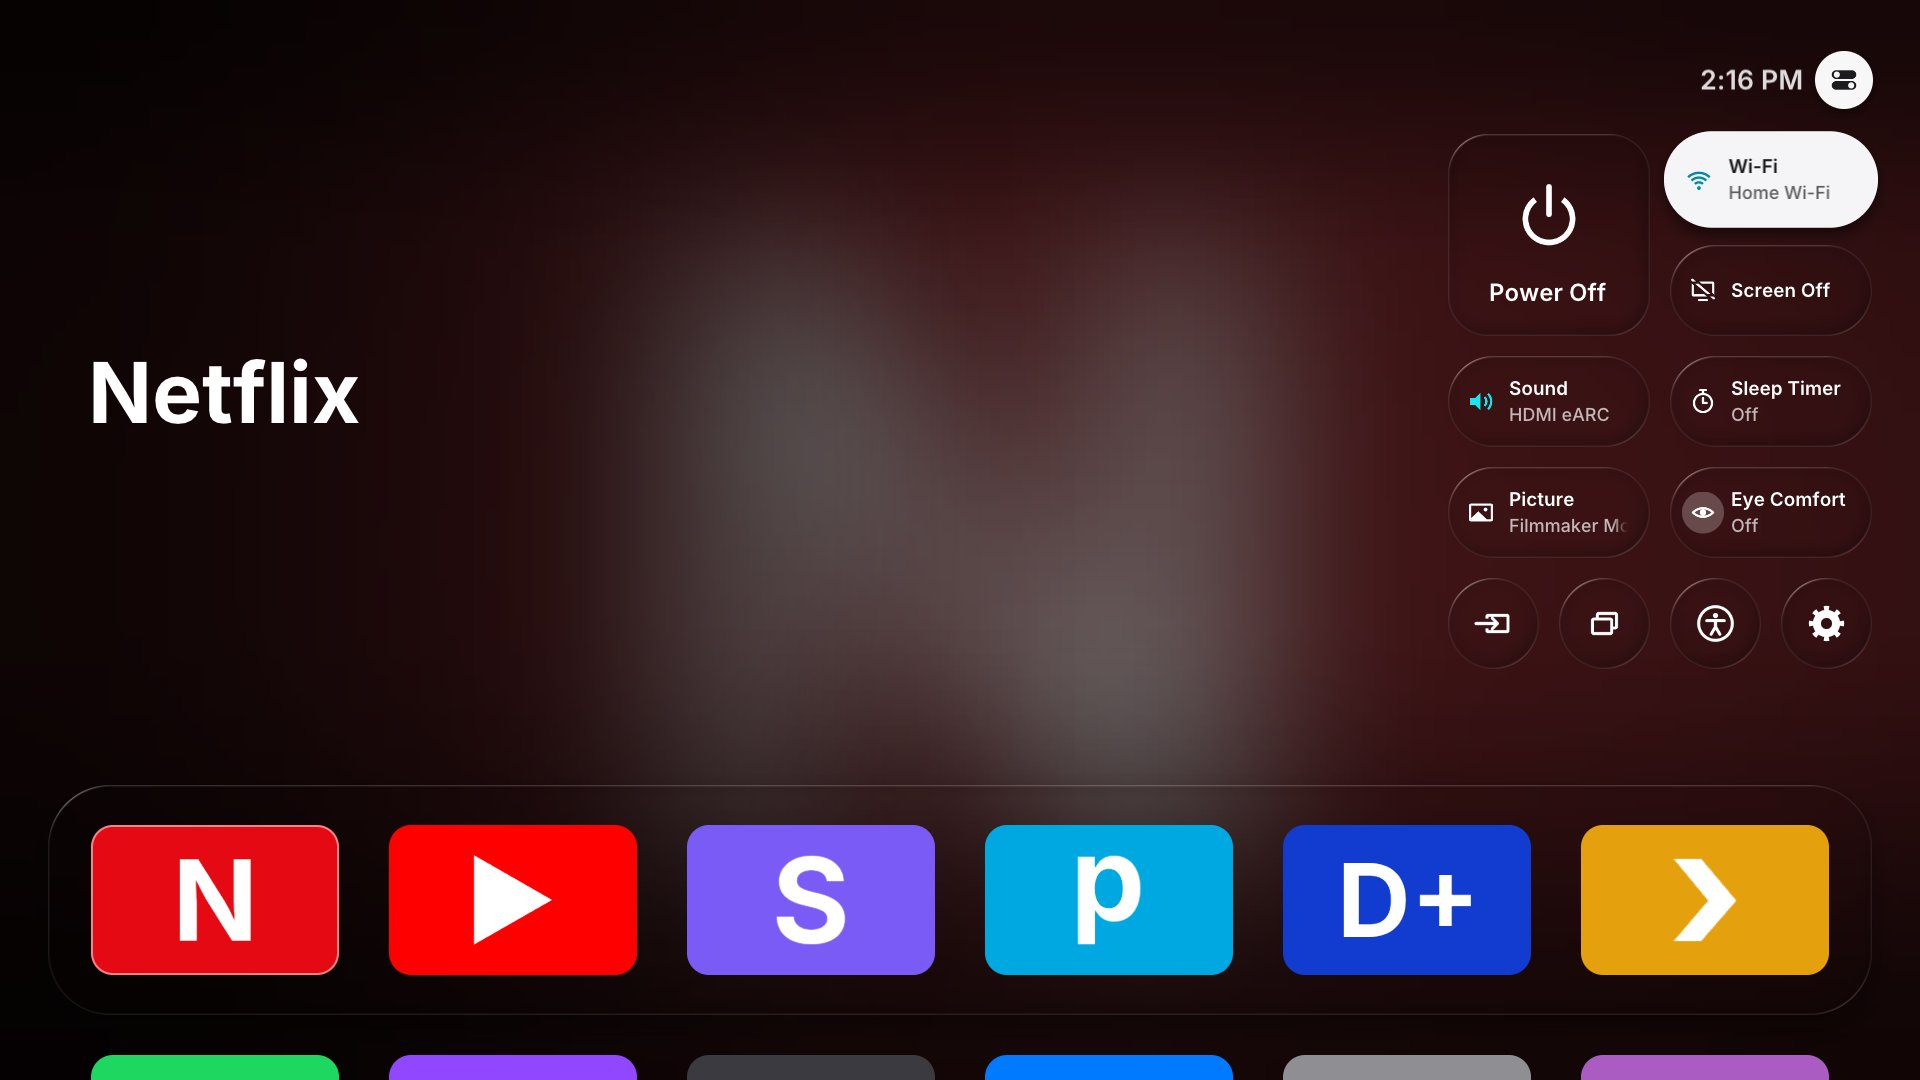
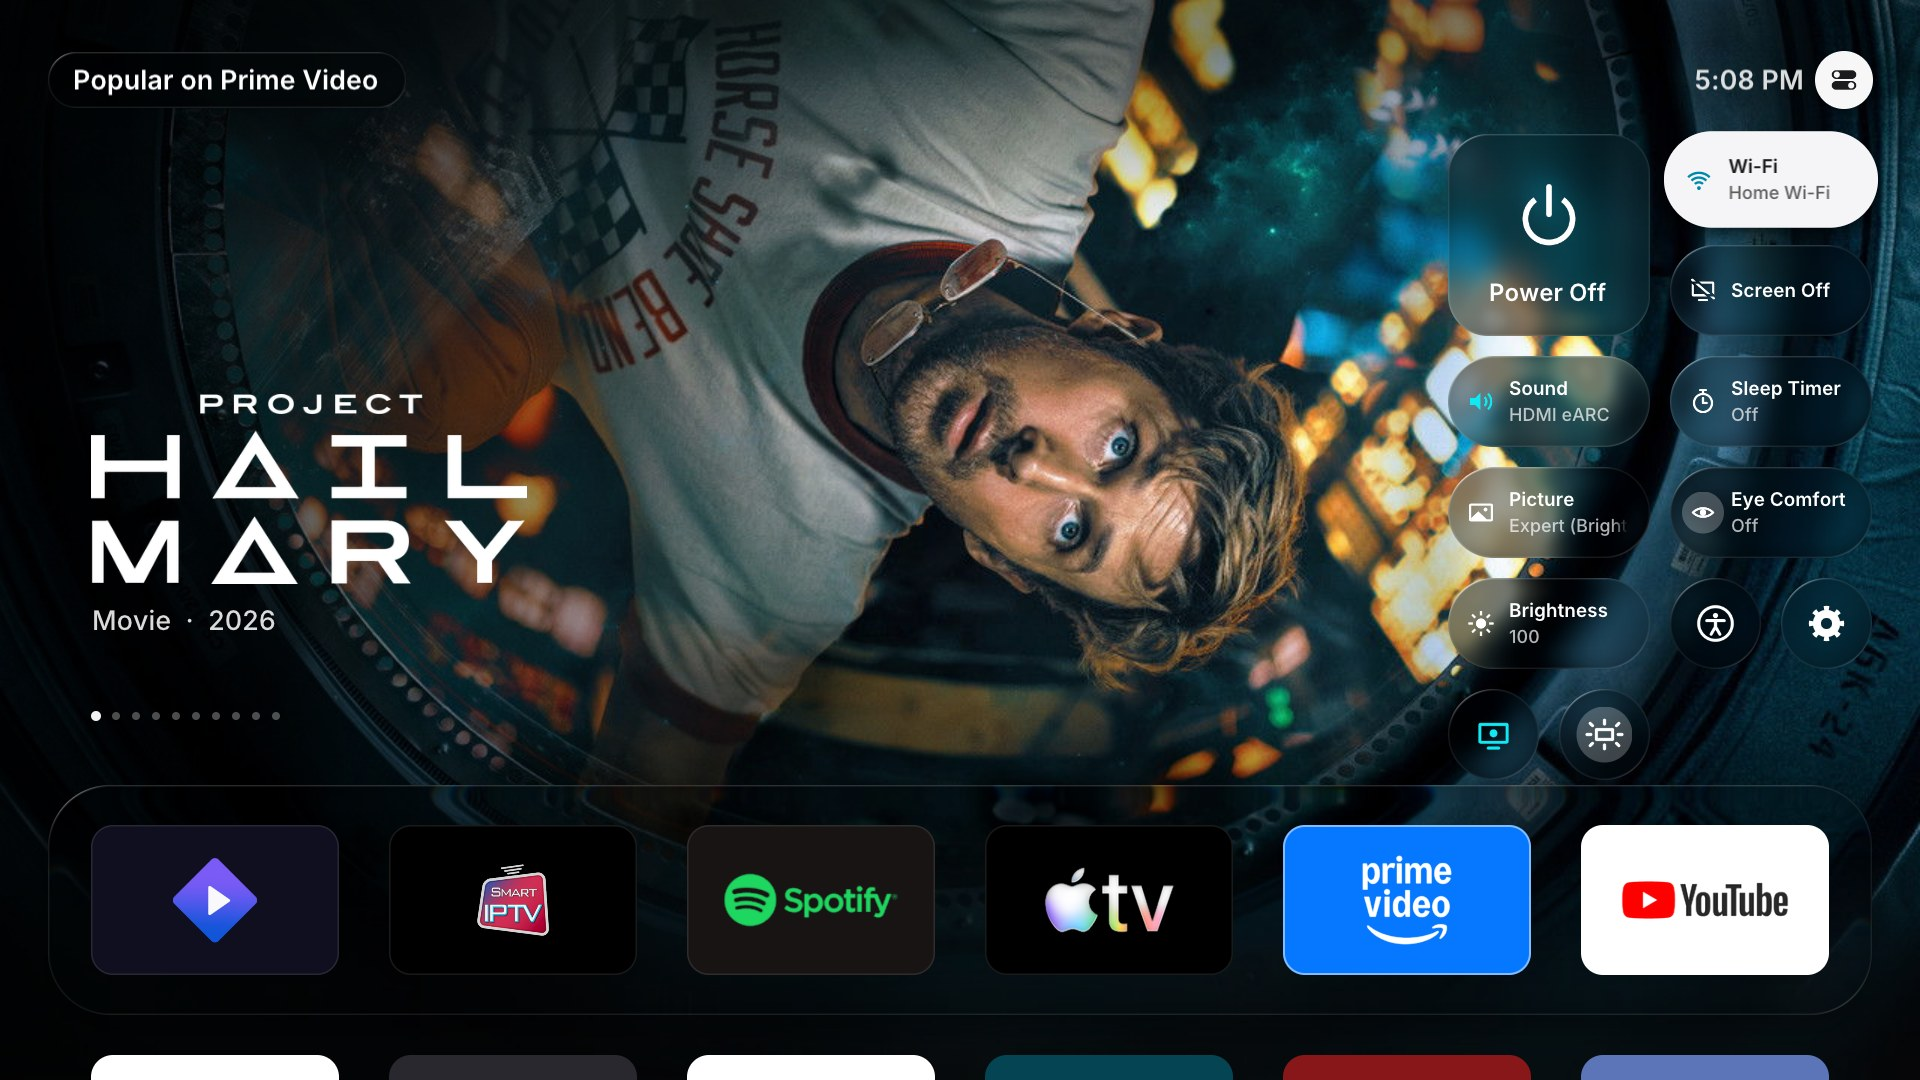
README: the Control Center, Add a Control, Settings and Plex's sign-in, with the C3's own apps
The Control Center's two pictures and Plex's sign-in came from the desktop preview, with its
placeholder apps, and the Settings picture showed the grid opening Web Browser, not Settings. All four
are now the launcher's own frames (its desktop build) of the C3's data: its apps, its dock and Control
Center layouts, its settings, and Prime Video's popular titles behind.

They were drawn through a read-only stand-in for the service on the TV. It forwarded only reads,
answered every change itself (none was tried), named the Wi-Fi "Home Wi-Fi", left Stremio's Continue
Watching out, and showed the tiles' Default look, as the other pictures do. The C3 has no Plex app, so
the stand-in listed one for Settings -> Accounts; the code is a real one from plex.tv, left unused.
Nothing showed on the TV.

diff --git a/README.md b/README.md
@@ -12,7 +12,7 @@ A tvOS-style home screen for rooted LG webOS TVs, in a Liquid Glass look, with C
 
 ![Continue Watching in the Top Shelf](docs/screenshots/continue-watching.jpg)
 
-*Screenshots show a real TV's apps and Continue Watching. The Jellyfin and Plex ones use placeholder shows, and the Control Center ones placeholder apps.*
+*Screenshots show a real TV's apps and Continue Watching. The Jellyfin one uses placeholder shows.*
 
 > **Not affiliated with LG, Apple, Stremio, Trakt, Jellyfin, Plex or TMDB.** Home+ uses the TMDB API but is not endorsed or certified by TMDB. Home+ is an independent project. tvOS and Liquid Glass are Apple's names for Apple's designs; Home+ only borrows the look. It runs on **rooted** TVs and uses Stremio's, Trakt's and Plex's web APIs unofficially. Use it at your own risk.
 
@@ -122,7 +122,7 @@ Focus Stremio, Jellyfin or Plex in the top row, and the Top Shelf shows what you
 
 Sign in under **Settings → Accounts**, or hold **OK** on the app and choose **Sign In**. The TV shows a code, and a QR code where the service has one; you approve it on your phone or computer, where you're already signed in. No password is typed on the TV.
 
-![Signing in to Plex with a QR code](preview/native-signin-plex.png)
+![Signing in to Plex with a QR code](docs/screenshots/plex-signin.jpg)
 
 Pressing **OK** on a card opens the app. The LG apps can't be sent to a specific title from outside, so a notification names the title, ready to pick from the app's own Continue Watching.
 
